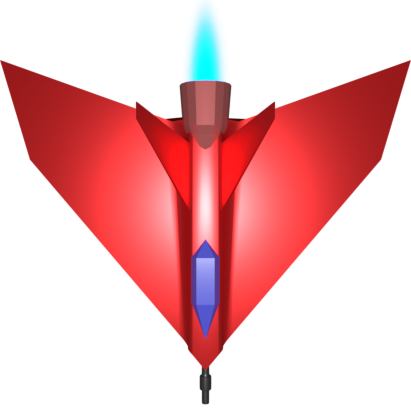
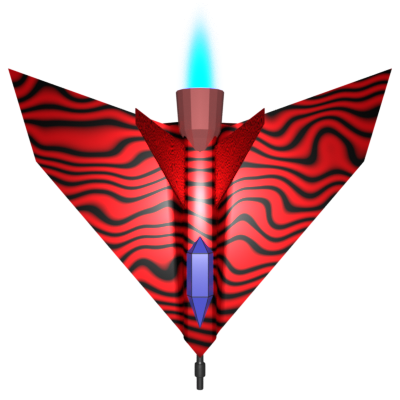
WIP: Created more sprites and images, implemented animations.

diff --git a/main.py b/main.py
@@ -1,6 +1,7 @@
 import settings as stgs
 from spaceship import Spaceship
 from enemy_creator import enemy_creator
+from utils import load_image, load_images, Animation
 
 from time import time
 import pygame as pg
@@ -17,9 +18,19 @@ class Game:
         self.enemy_group = pg.sprite.Group()
         self.projectile_group = pg.sprite.Group()
 
+        self.assets = {
+            "background": load_image("backgrounds", "00.png", 1),
+            "ship/idle": Animation(load_images("Ship/idle", scale_factor=0.25), animation_duration=1),
+            "ship/curve": Animation(load_images("Ship/curve", scale_factor=0.25), animation_duration=1),
+            "enemy1/idle": Animation(load_images("enemies/ship1/idle", scale_factor=0.25), animation_duration=1),
+            "enemy1/curve": Animation(load_images("enemies/ship1/curve", scale_factor=0.25), animation_duration=1),
+            "enemy2/idle": Animation(load_images("enemies/ship2/idle", scale_factor=0.25), animation_duration=1),
+            "enemy2/curve": Animation(load_images("enemies/ship2/curve", scale_factor=0.25), animation_duration=1),
+        }
+
         # Create player and add to groups
         self.player_pos = (stgs.GAME_WINDOW_RESOLUTION[0] // 2, stgs.GAME_WINDOW_RESOLUTION[1] // 5 * 4)
-        self.spaceship = Spaceship(self.player_group, self.projectile_group, self.player_pos)
+        self.spaceship = Spaceship(self, self.player_group, self.projectile_group, self.player_pos)
         self.move_x, self.move_y = [0, 0], [0, 0]
 
         self.score_font = pg.font.SysFont("comicsans", 42)
@@ -87,8 +98,8 @@ class Game:
         self.main_window.blit(score_to_blit, (8, 8))
 
     def draw_window(self):
-        self.main_window.fill('black')
-        self.game_window.fill('blue')
+        self.main_window.fill('blue')
+        self.game_window.blit(self.assets["background"], (0, -2000))
 
         self.draw_score()
         self.enemy_group.draw(self.game_window)

diff --git a/spaceship.py b/spaceship.py
@@ -6,14 +6,17 @@ import pygame as pg
 
 
 class Spaceship(pg.sprite.Sprite):
-    def __init__(self, player_group, projectile_group, pos):
+    def __init__(self, game, player_group, projectile_group, pos):
         super().__init__(player_group)
+        self.game = game
         self.projectile_group = projectile_group
-        self.image = load_image("Ship/idle", "00")
-        self.image = pg.transform.scale(self.image, (self.image.get_width()//4, self.image.get_height()//4))
+        self.state = "idle"
+        self.animation = self.game.assets["ship/" + self.state].copy()
+        self.image = self.animation.get_img()
         self.rect = self.image.get_rect(center = pos)
         self.pos = pg.math.Vector2(self.rect.topleft)
         self.direction = pg.math.Vector2()
+        self.flip_image = False
         self.shoot_timer = 0
         self.fire_rate = 0.5
         self.speed = 200
@@ -23,9 +26,24 @@ class Spaceship(pg.sprite.Sprite):
         self.health -= 1
         if self.health <= 0:
             self.kill()
+    
+    def handle_animation(self, dt, move_x):
+        old_state = self.state
+        if (move_x[1] - move_x[0]) == 0:
+            self.state = "idle"
+        else:
+            self.state = "curve"
+        if old_state != self.state:
+            self.animation = self.game.assets["ship/" + self.state].copy()
+            self.rect = self.image.get_rect(center = self.pos)
+
+        self.flip_image = True if (move_x[1] - move_x[0]) > 0 else False
+        self.auto_fire(dt)
+        self.animation.update(dt)
+        self.image = pg.transform.flip(self.animation.get_img(), self.flip_image, False)
 
     def update(self, dt, move_x=(0, 0), move_y=(0, 0)):
-        self.auto_fire(dt)
+        self.handle_animation(dt, move_x)
 
         self.pos.x += (move_x[1] - move_x[0]) * self.speed * dt
         if self.pos.x < 0:

diff --git a/utils.py b/utils.py
@@ -4,11 +4,35 @@ import pygame as pg
 
 BASE_PATH = "images/"
 
-def load_image(path, imagename):
-    return pg.image.load(BASE_PATH + path + "/" + imagename + ".png").convert_alpha()
+def load_image(path, imagename, scale_factor):
+    img = pg.image.load(BASE_PATH + path + "/" + imagename).convert_alpha()
+    return pg.transform.scale(img, (img.get_width() * scale_factor, img.get_height() * scale_factor))
 
-def load_images(path):
+def load_images(path, scale_factor):
     images = []
     for img_name in sorted(os.listdir(BASE_PATH + path)):  # sorted because of not Windows systems
-        images.append(load_image(path + '/' + img_name))
+        images.append(load_image(path + '/', img_name, scale_factor))
     return images
+
+
+class Animation:
+    def __init__(self, image_list, animation_duration):
+        self.img_list = image_list
+        self.anim_dur = animation_duration
+        self.current_frame = 0
+        self.img_duration = animation_duration / len(image_list)
+        self.img_timer = 0
+
+    def copy(self):
+        return Animation(self.img_list, self.anim_dur)
+
+    def update(self, dt):
+        self.img_timer += dt
+        if self.img_timer >= self.img_duration:
+            self.current_frame += 1
+            self.img_timer = 0
+            if self.current_frame > len(self.img_list)-1:
+                self.current_frame = 0
+
+    def get_img(self):
+        return self.img_list[self.current_frame]

diff --git a/enemy.py b/enemy.py
@@ -13,9 +13,9 @@ class Enemy(pg.sprite.Sprite):
         self.health = int(health)
         self.score_factor = int(health)
         self.projectile_group = projectile_group
-        ship_path = "ship1" if self.health == 1 else "ship2"
-        self.image = load_image("enemies/" + ship_path + "/idle", "00")
-        self.image = pg.transform.scale(self.image, (self.image.get_width()//4, self.image.get_height()//4))
+        ship_path = "enemy1" if self.health == 1 else "enemy2"
+        self.animation = self.game.assets[ship_path + "/idle"].copy()
+        self.image = self.animation.get_img()
         self.rect = self.image.get_rect(center = pos)
         self.pos = pg.math.Vector2(self.rect.topleft)
         self.direction = pg.math.Vector2()
@@ -29,6 +29,9 @@ class Enemy(pg.sprite.Sprite):
             self.game.score += 50 * self.score_factor
 
     def update(self, dt):
+        self.animation.update(dt)
+        self.image = self.animation.get_img()
+
         self.direction.y = 1
         self.pos.y += self.direction.y * self.speed * dt
         self.rect.x = self.pos.x

diff --git a/projectile.py b/projectile.py
@@ -7,6 +7,7 @@ class Projectile(pg.sprite.Sprite):
     def __init__(self, group, pos, direction):
         super().__init__(group)
         self.image = pg.Surface((5, 10))
+        self.image.fill("white")
         self.rect = self.image.get_rect(center=pos)
         self.pos = pg.math.Vector2(self.rect.topleft)
         self.direction = direction
